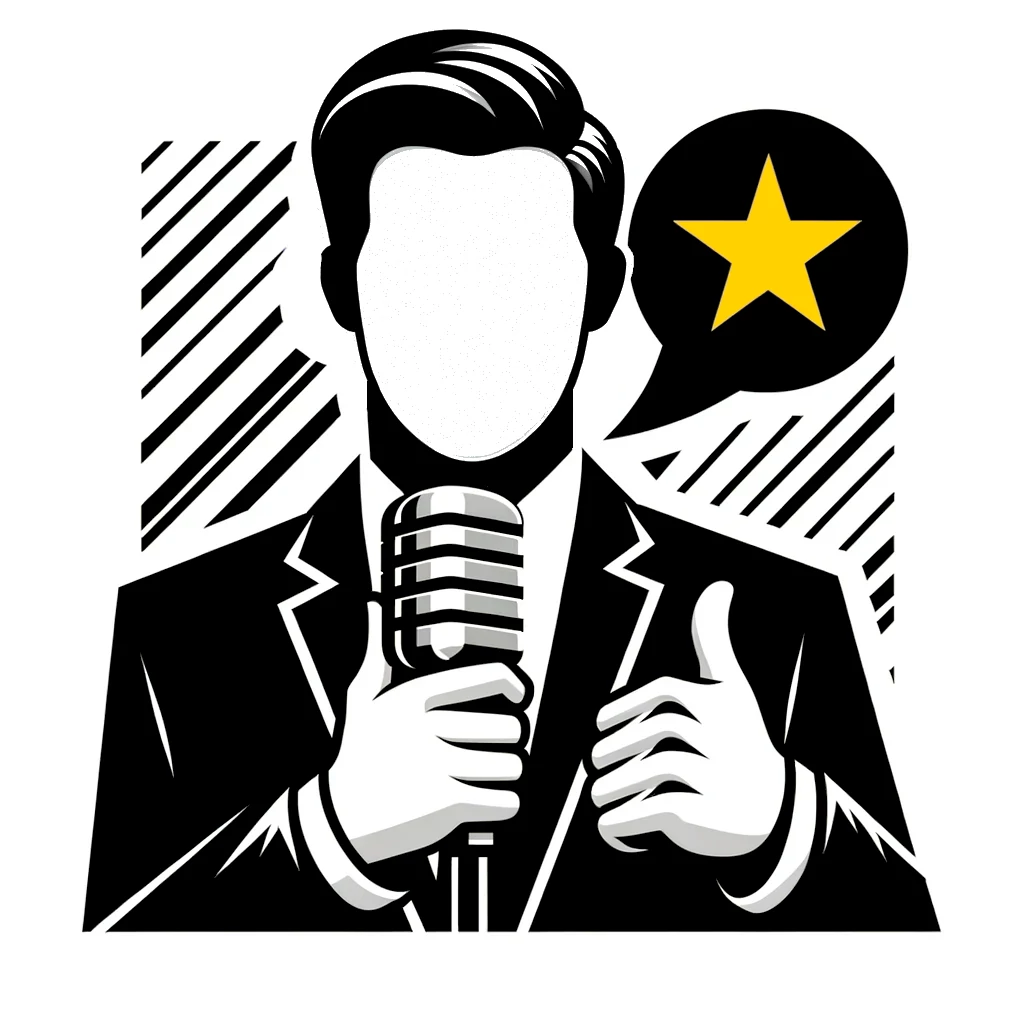
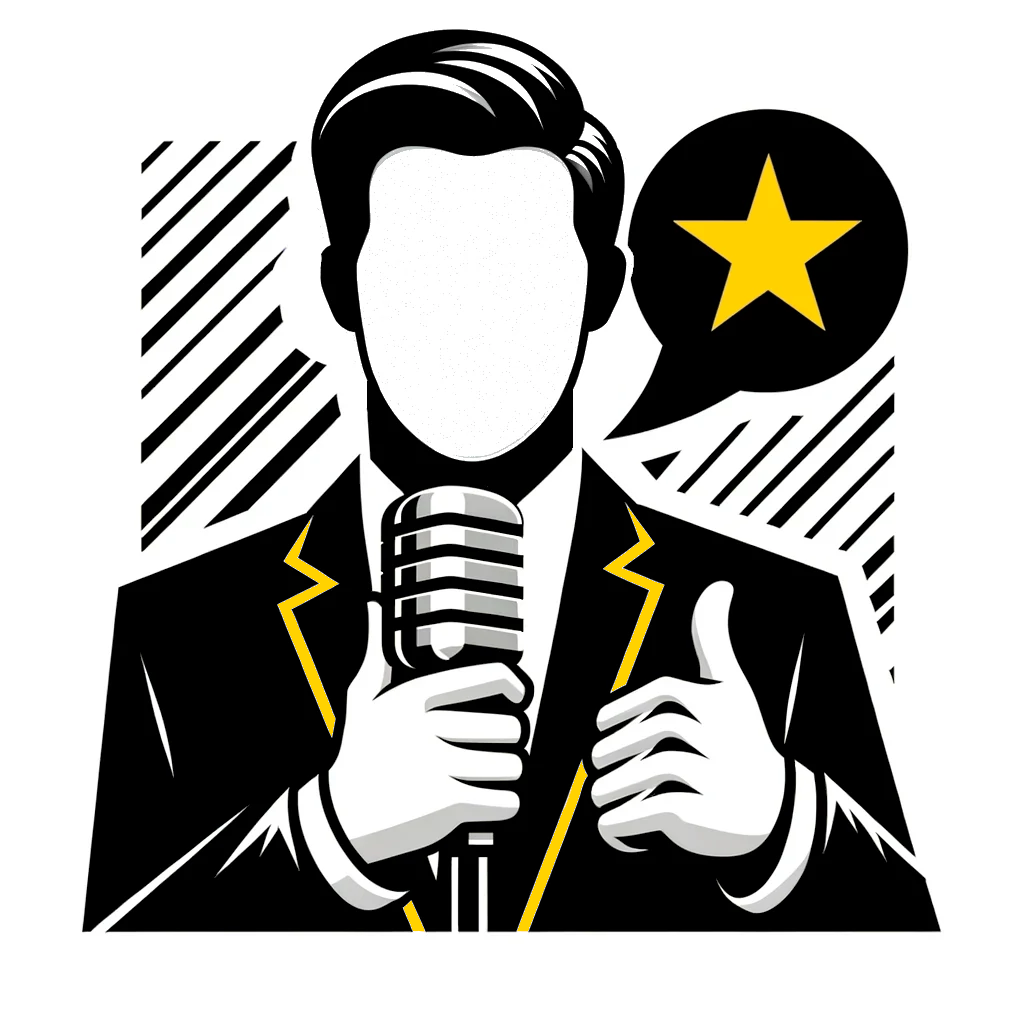
feat: hire me img

diff --git a/themes/al/layouts/partials/sections/hire-me.html b/themes/al/layouts/partials/sections/hire-me.html
@@ -7,7 +7,7 @@
     </div>
     <div class="row justify-content-center">
       <div class="col-12 col-xl-8 text-center">
-        {{ partial "asset-image" (dict "src" "services-web-development.png" "alt" (i18n "home.section.hire-me.title") "size" "600x") }}
+        {{ partial "asset-image" (dict "src" "hire-me.png" "alt" (i18n "home.section.hire-me.title") "size" "400x") }}
       </div>
     </div>
     <div class="row justify-content-center">

diff --git a/themes/al/layouts/_default/hire-me.html b/themes/al/layouts/_default/hire-me.html
@@ -4,7 +4,7 @@
     <div class="row">
       <div class="col-xl-6 col-12">
         <div class="post-image">
-          {{ partial "asset-image" (dict "src" "me/alpes-craft.jpg" "alt" "Arnaud Langlade" "size" "600x") }}
+          {{ partial "asset-image" (dict "src" "hire-me.png" "alt" "Arnaud Langlade" "size" "600x") }}
         </div>
       </div>
       <div class="post-header-left col-xl-6 col-12 d-flex align-items-center">
